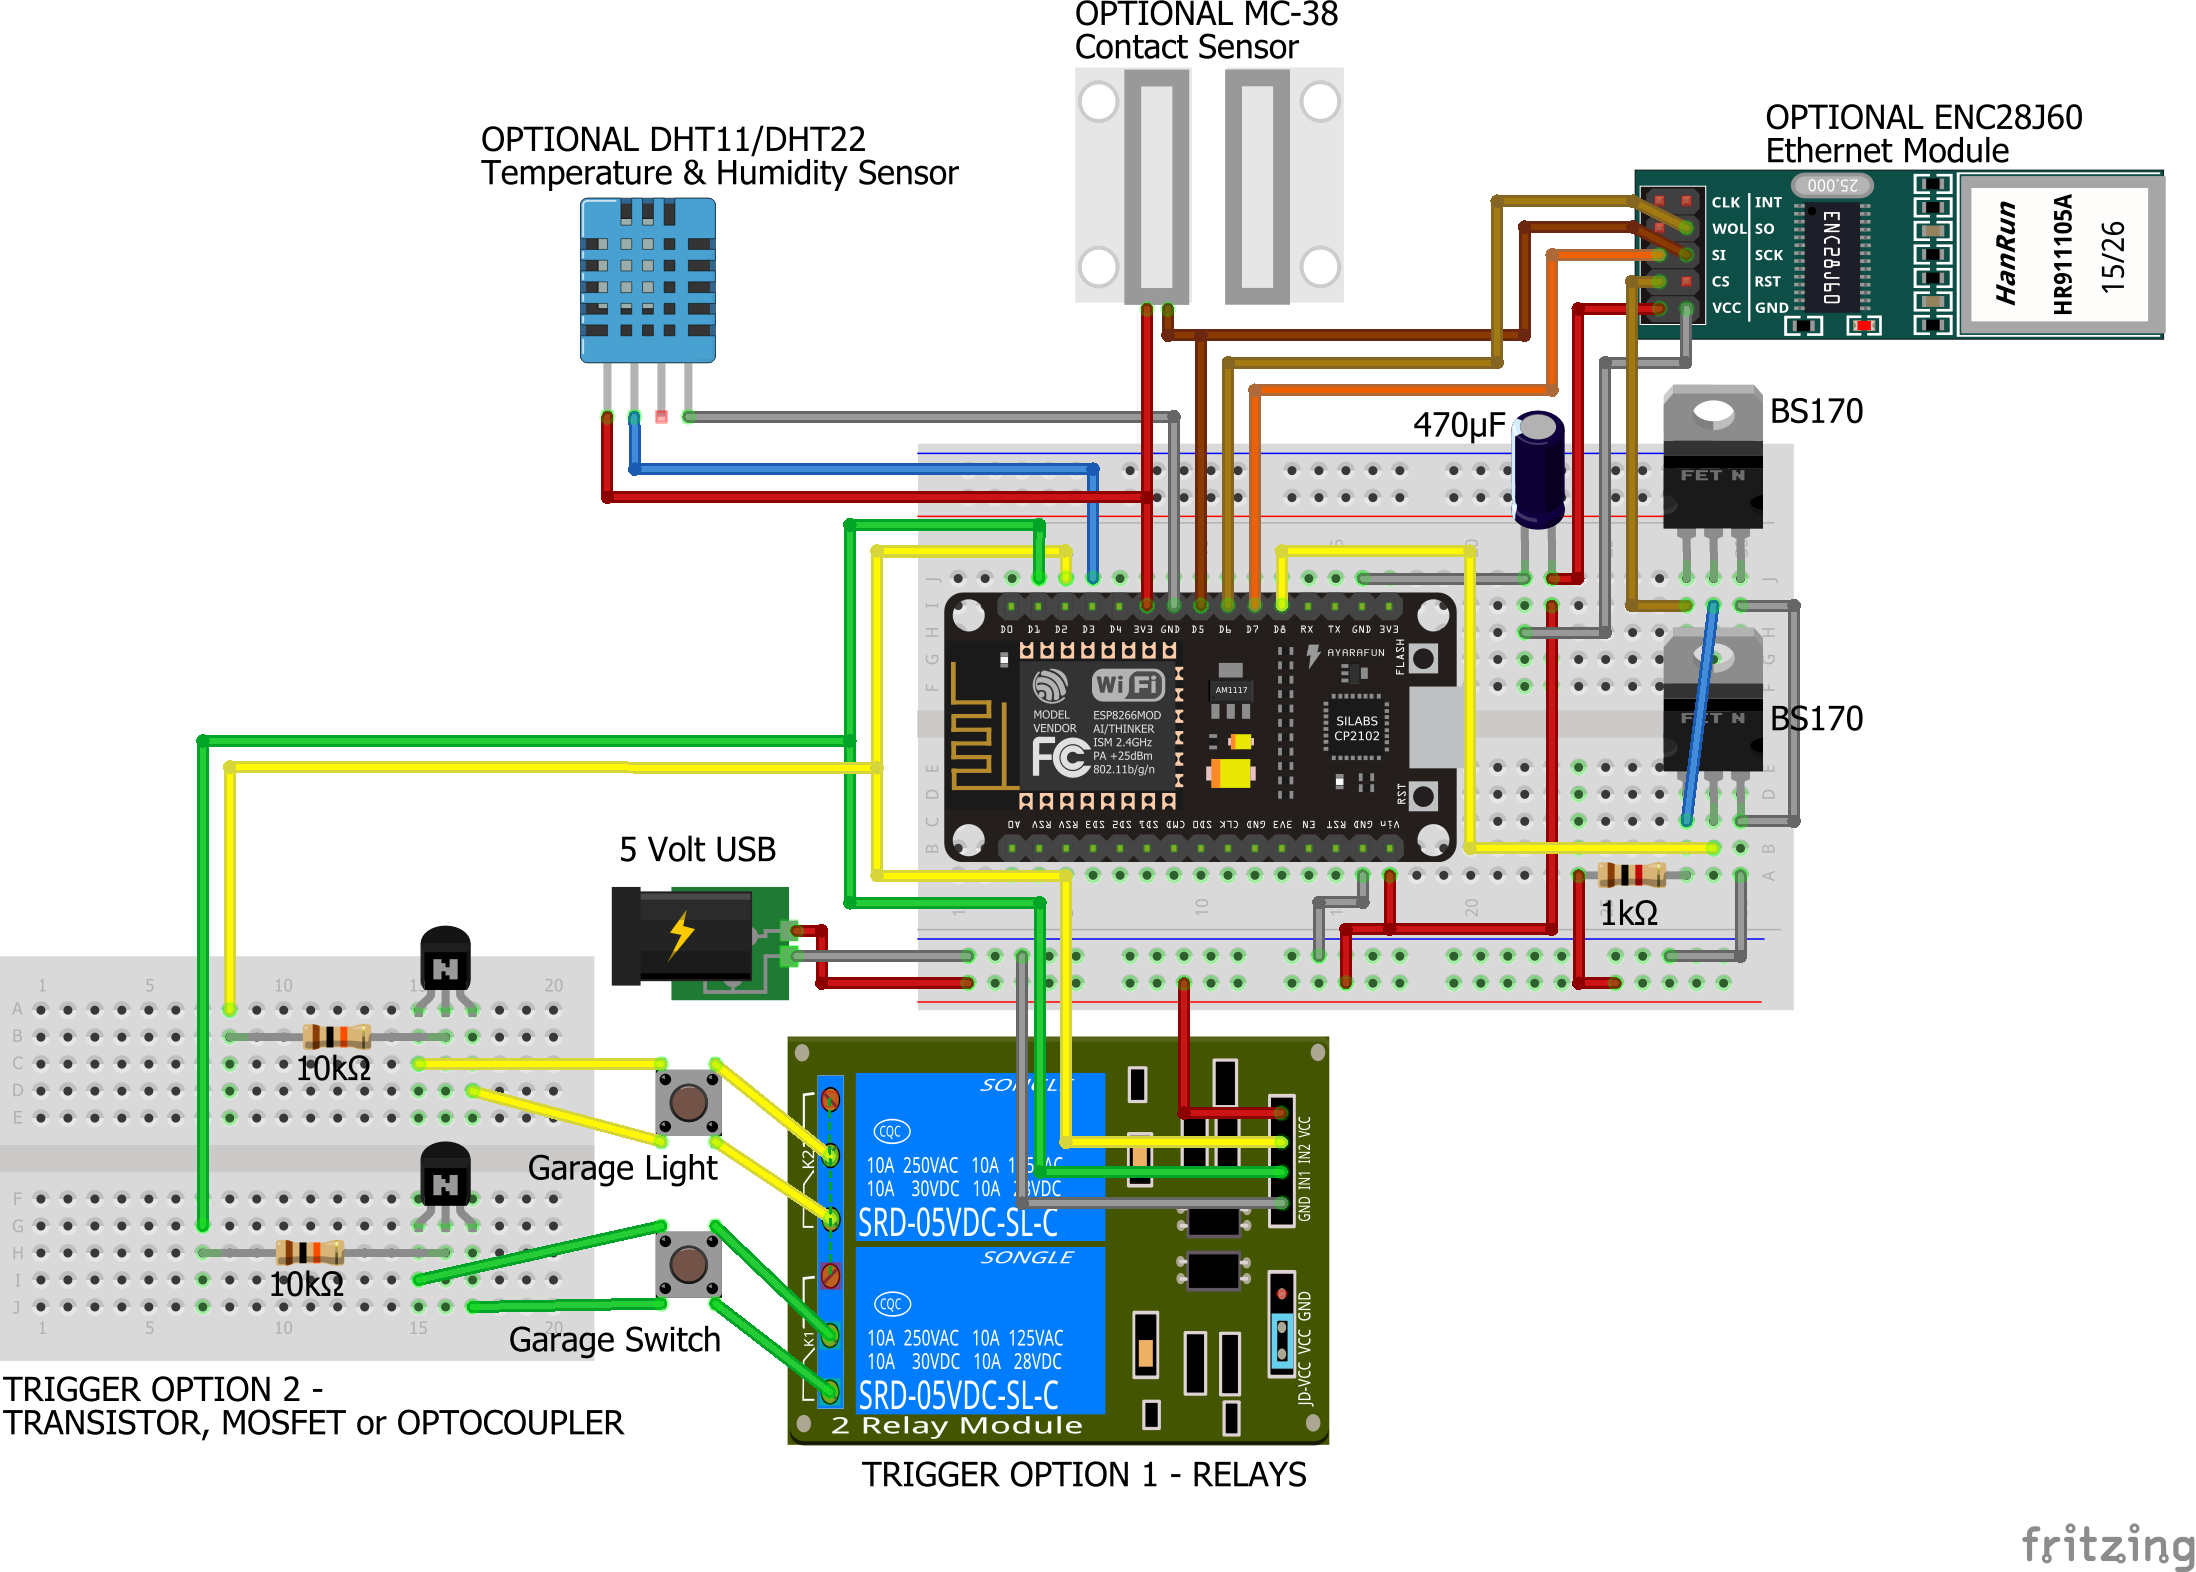
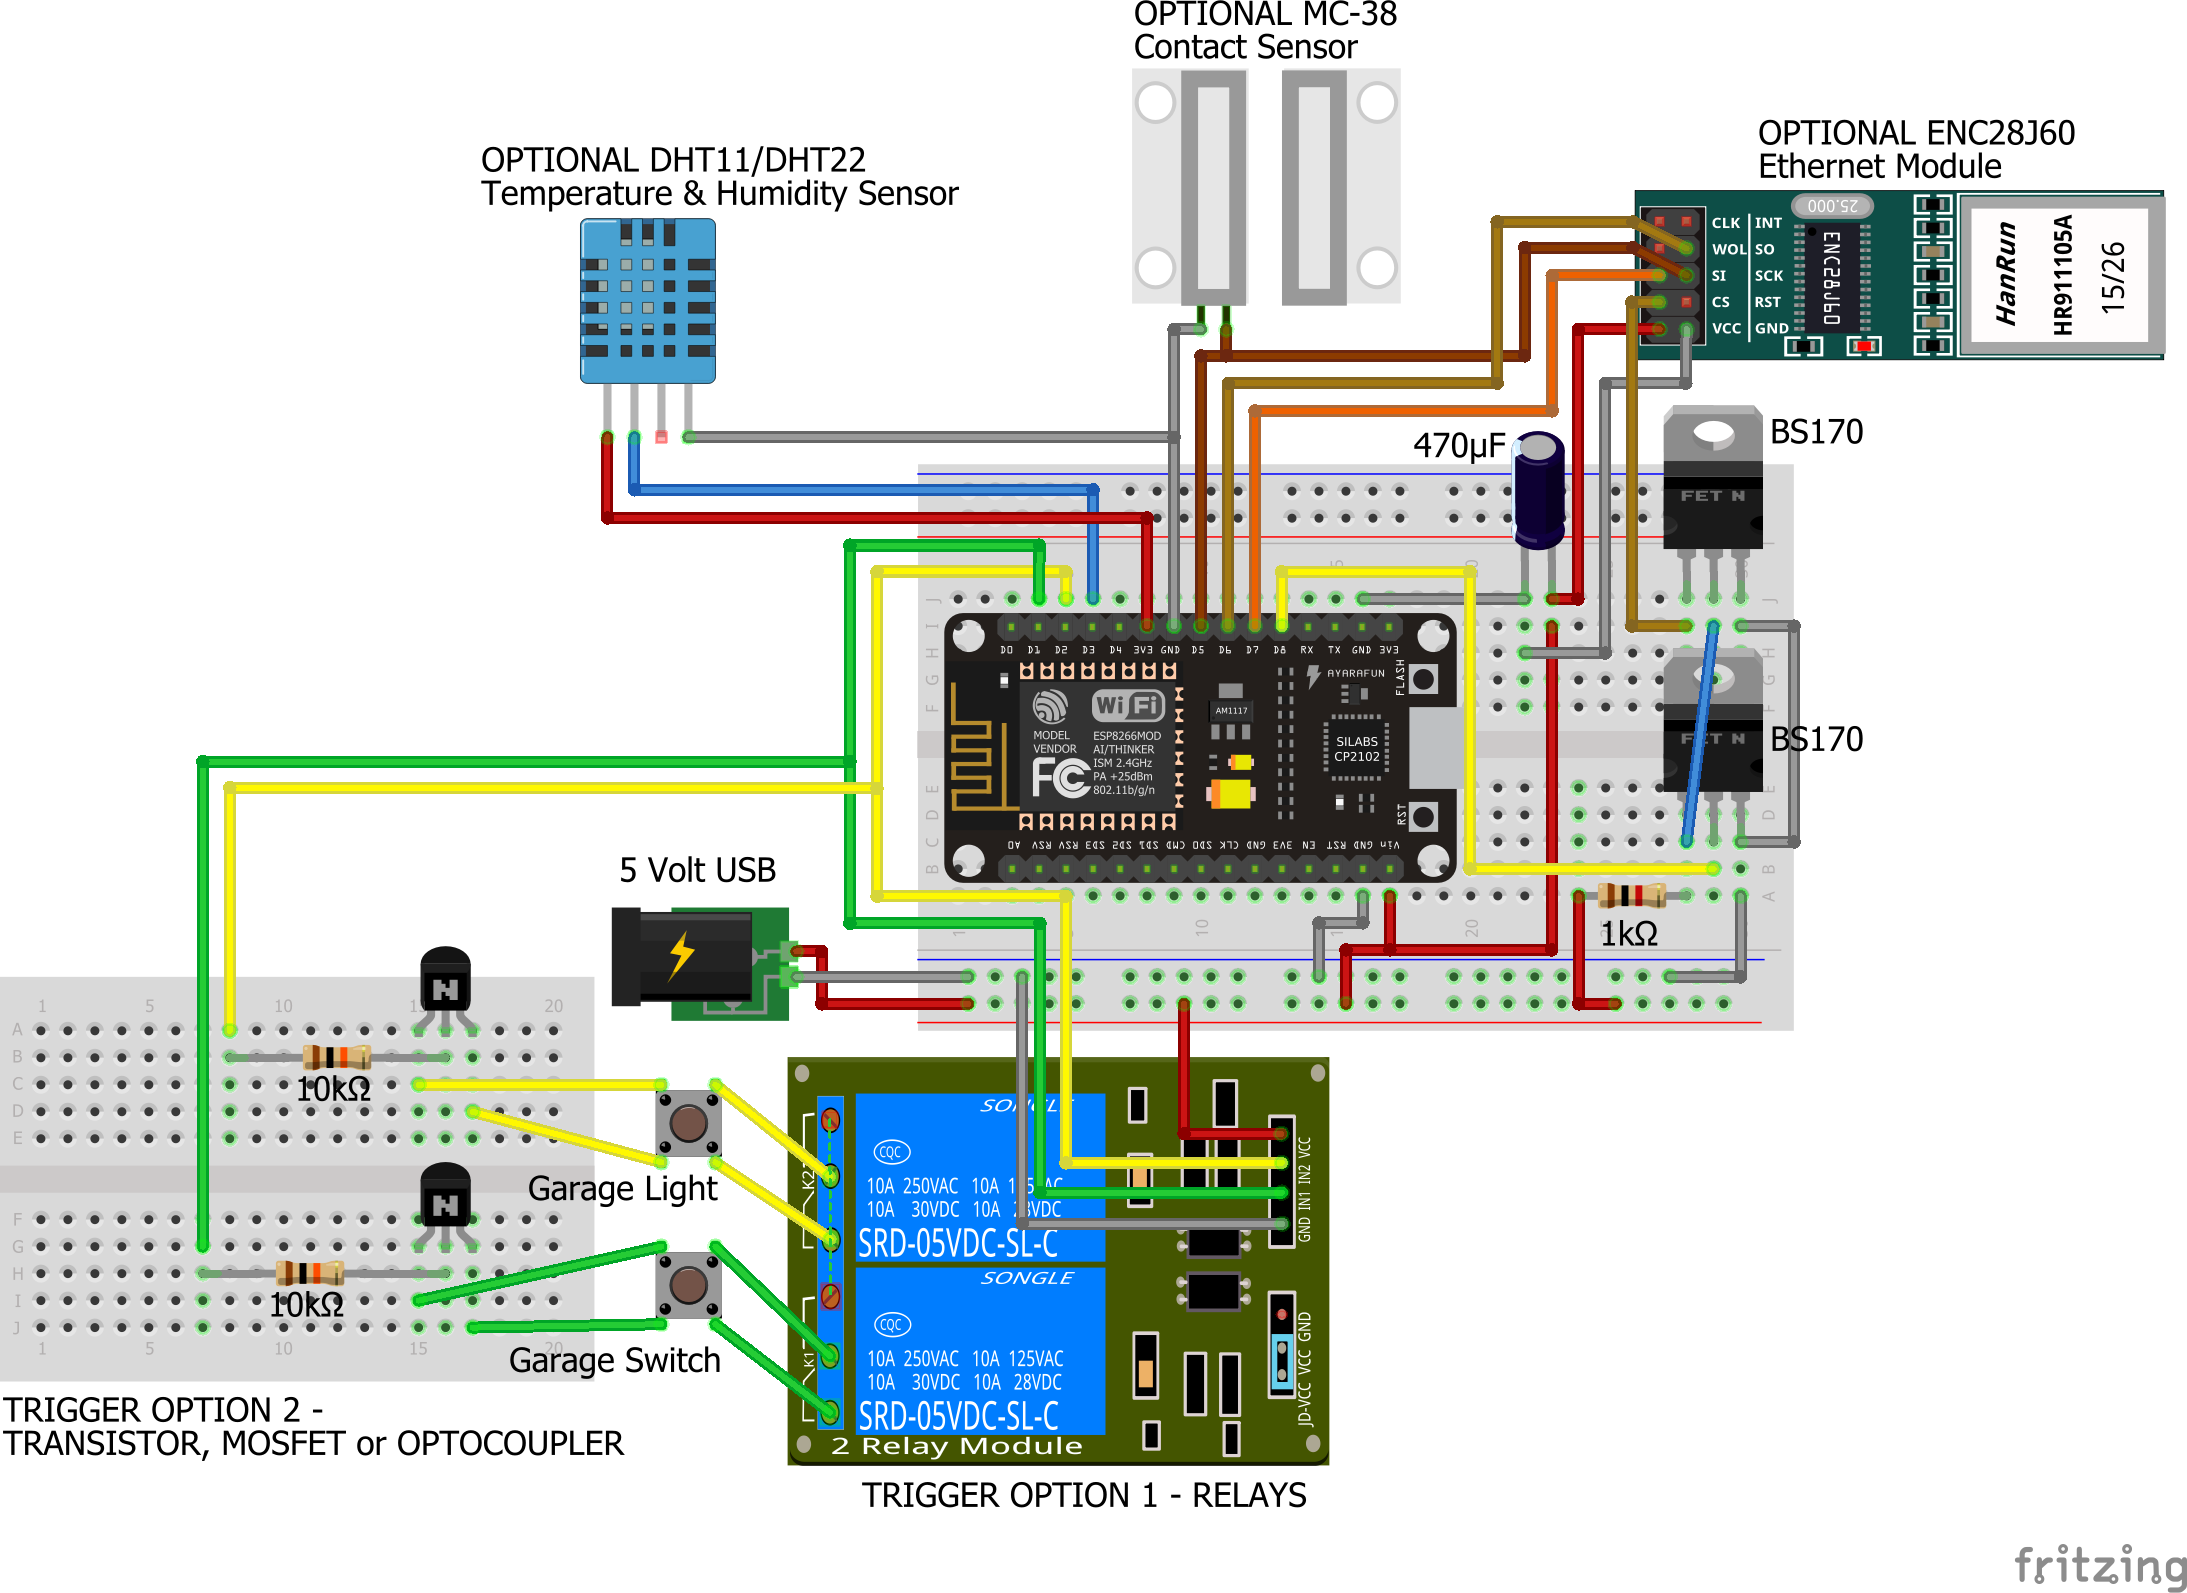
Arduino Only Now Using GND Rather than VCC for Contact Sensor
v1.0.20170218 - Changed only the Arduino/NodeMCU code samples to use the
GND signal instead of VCC for better accuracy. Read up on INPUT_PULLUP
for my reasoning.

Changed region(s): [[0.0, 0.0, 0.995, 0.9663], [0.9328, 0.9663, 1.0, 1.0]]

diff --git a/Devices/Generic HTTP Device/README.md b/Devices/Generic HTTP Device/README.md
@@ -13,6 +13,7 @@ The *.ino files are the Arduino IDE code samples. Verify the few options at the 
 
 This project was tested successfully via an external IP, Pollster and with an Amazon Echo/Alexa. Echo can run TWO functions in my app. The ON command triggers the main function and OFF triggers the custom function but can be changed to only control the Main switch.
 
+</br>v1.0.20170218 - Changed only the Arduino/NodeMCU code samples to use the GND signal instead of VCC for better accuracy. Read up on INPUT_PULLUP for my reasoning.
 </br>v1.0.20170214 - Added contact sensor ability. Using SmartThings "capability" so rules can be respected when sensor state changes. Modified both Arduino sketches and PHP samples.
 </br>v1.0.20170126 - NodeMCU sketch DHT sensor retry logic is a bit smarter. Small bug fixes.
 </br>v1.0.20170121 - NodeMCU sketch is now able to do OTA updates via a web-page or directly via the Arduino IDE.
